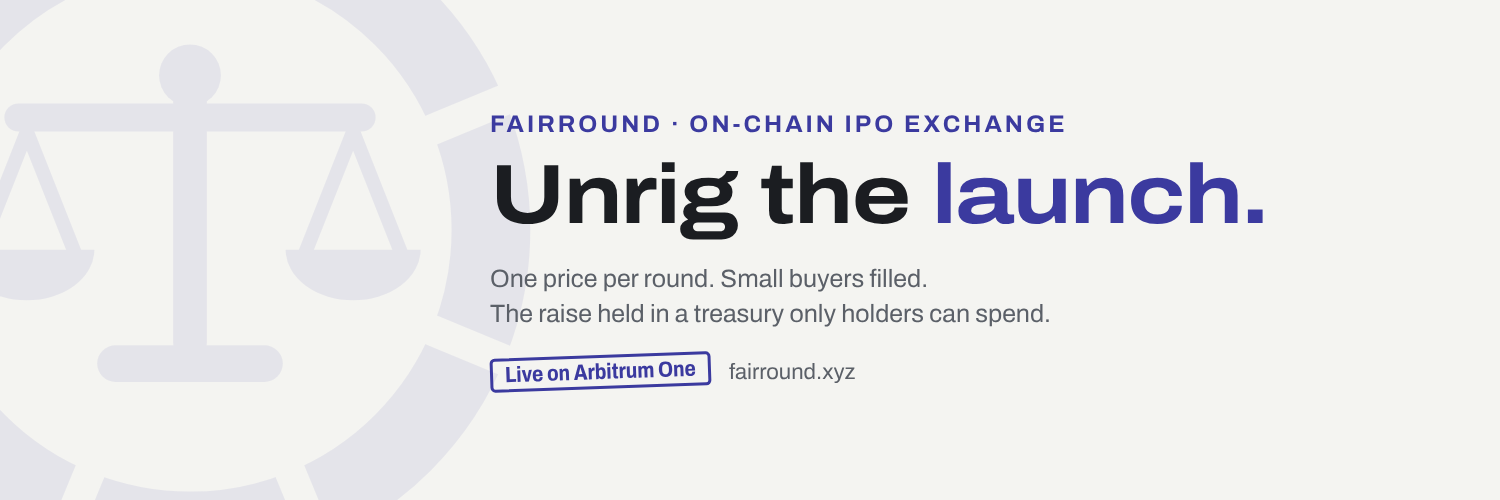
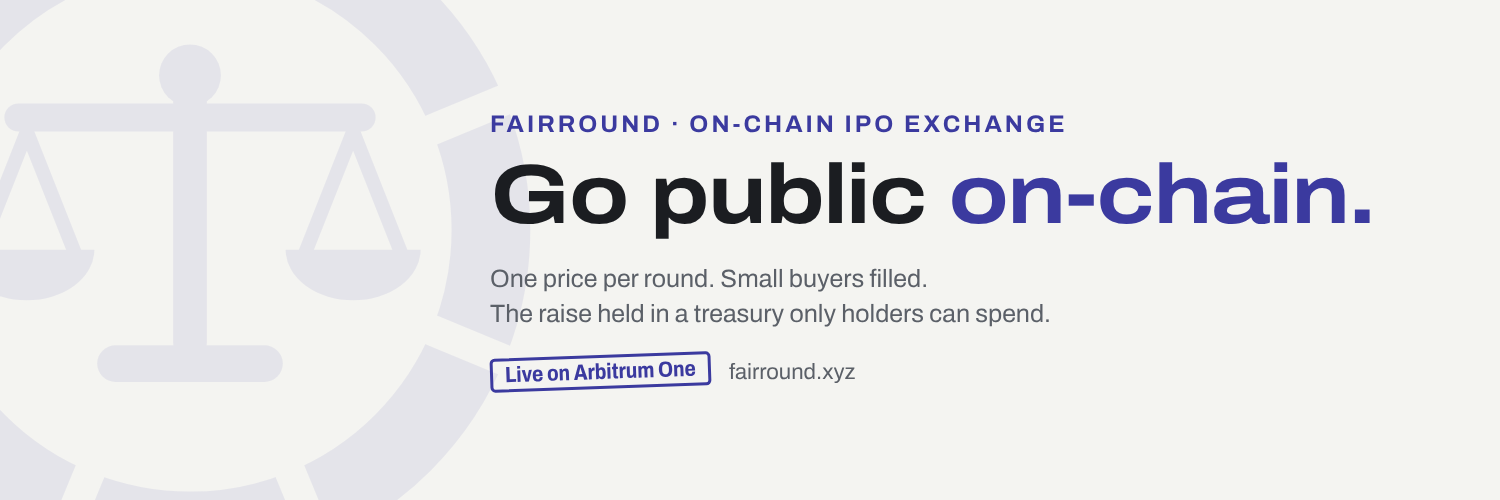
Slogan: Go public on-chain. Site headline (EN/KA), og-image, X header and how-it-works image, kit mission and vision
Claude-Session: https://claude.ai/code/session_01EESBiKfppsJ211HJXDWywN

Changed region(s): [[0.3067, 0.3, 0.92, 0.48]]

diff --git a/site/src/strings.ka.js b/site/src/strings.ka.js
@@ -167,7 +167,7 @@ export default {
   "Stage": "ეტაპი",
   "Stand for project lead": "აღმასრულებლის კანდიდატად წარდგენა",
   "Start the auction": "აუქციონის დაწყება",
-  "Launch without the rug.": "ტოკენის გაშვება რაგფულის გარეშე.",
+  "Go public on-chain.": "საჯარო განთავსება ბლოკჩეინზე.",
   "Summary": "შეჯამება",
   "Term": "ვადა",
   "Term ends in {time}": "ვადის დასრულებამდე დარჩა {time}",

diff --git a/site/src/pages/Register.jsx b/site/src/pages/Register.jsx
@@ -64,7 +64,7 @@ export default function Register() {
   return (
     <div className="page">
       <section style={{ padding: "56px 0 40px" }} className="stack">
-        <h1 className="h1" style={{ maxWidth: "15ch" }}>{t("Launch without the rug.")}</h1>
+        <h1 className="h1" style={{ maxWidth: "15ch" }}>{t("Go public on-chain.")}</h1>
         <p className="lede">
           {t("The on-chain IPO exchange for crypto projects. Projects list through fair rounds: everyone pays the same clearing price, small buyers get filled, and the raise sits in a treasury holders control. Then units trade on the market.")}
         </p>

diff --git a/MARKETING_KIT.md b/MARKETING_KIT.md
@@ -9,11 +9,11 @@ Sakartvelo Exchange kit is archived in `docs/archive/`.
 - **Domain:** fairround.xyz
 - **Category:** the on-chain IPO exchange for crypto projects.
 - **One line:** Crypto projects list on FairRound through fair rounds (one clearing price per round, equal access for small buyers, the raise held in a treasury only holders can spend), then their units trade on the market.
-- **Slogan:** Unrig the launch.
-- **Short tagline (bios, buttons, the site's headline):** Launch without the rug.
-- **Mission:** make every token launch fair by default: one price for everyone in a round, a real fill for small buyers, and a raise that only holders can spend.
-- **Vision:** a crypto market where launching a token works like listing on a public exchange, with the rules enforced by code instead of trust, so "rug" becomes a word nobody needs.
-- **Retired:** "Diversified ownership defines the price" (too academic for a crypto audience).
+- **Slogan (also the site's headline):** Go public on-chain.
+- **Mission:** give crypto projects what stock markets give companies: a public listing with fair price discovery, broad ownership, and leadership that answers to shareholders.
+- **Vision:** crypto projects list like public companies, and the people who fund them own them like shareholders.
+- **UNRIG** is the name of the test credit, not a slogan.
+- **Retired:** "Unrig the launch" and "Launch without the rug" (every launchpad claims anti-rug: mentor feedback, 24 October), and "Diversified ownership defines the price" (too academic).
 - **What we say about competitors:** "MetaDAO's protection, on Arbitrum, without whales taking the sale." Never attack Uniswap's auctions: they are the price-discovery standard; FairRound adds who gets filled and what happens to the money.
 
 ## Official accounts
@@ -23,7 +23,7 @@ Sakartvelo Exchange kit is archived in `docs/archive/`.
 - Telegram channel: [t.me/sakartvelo_exchange](https://t.me/sakartvelo_exchange) (rename the link in channel settings to fairround if free)
 - Telegram group: [t.me/sakartveloexchange](https://t.me/sakartveloexchange) (same)
 
-Every bio: "The on-chain IPO exchange for crypto projects. Launch without the rug." then `fairround.xyz`.
+Every bio: "The on-chain IPO exchange for crypto projects. Go public on-chain." then `fairround.xyz`.
 
 ## The ten listings (demo tiers)
 

diff --git a/README.md b/README.md
@@ -1,6 +1,6 @@
 # FairRound
 
-**Launch without the rug.** The on-chain IPO exchange for crypto projects,
+**Go public on-chain.** The on-chain IPO exchange for crypto projects,
 on Arbitrum: projects list through fair rounds (one clearing price per
 round, equal access for small buyers, the raise held in a treasury only
 holders can spend), then their units trade on the market.
